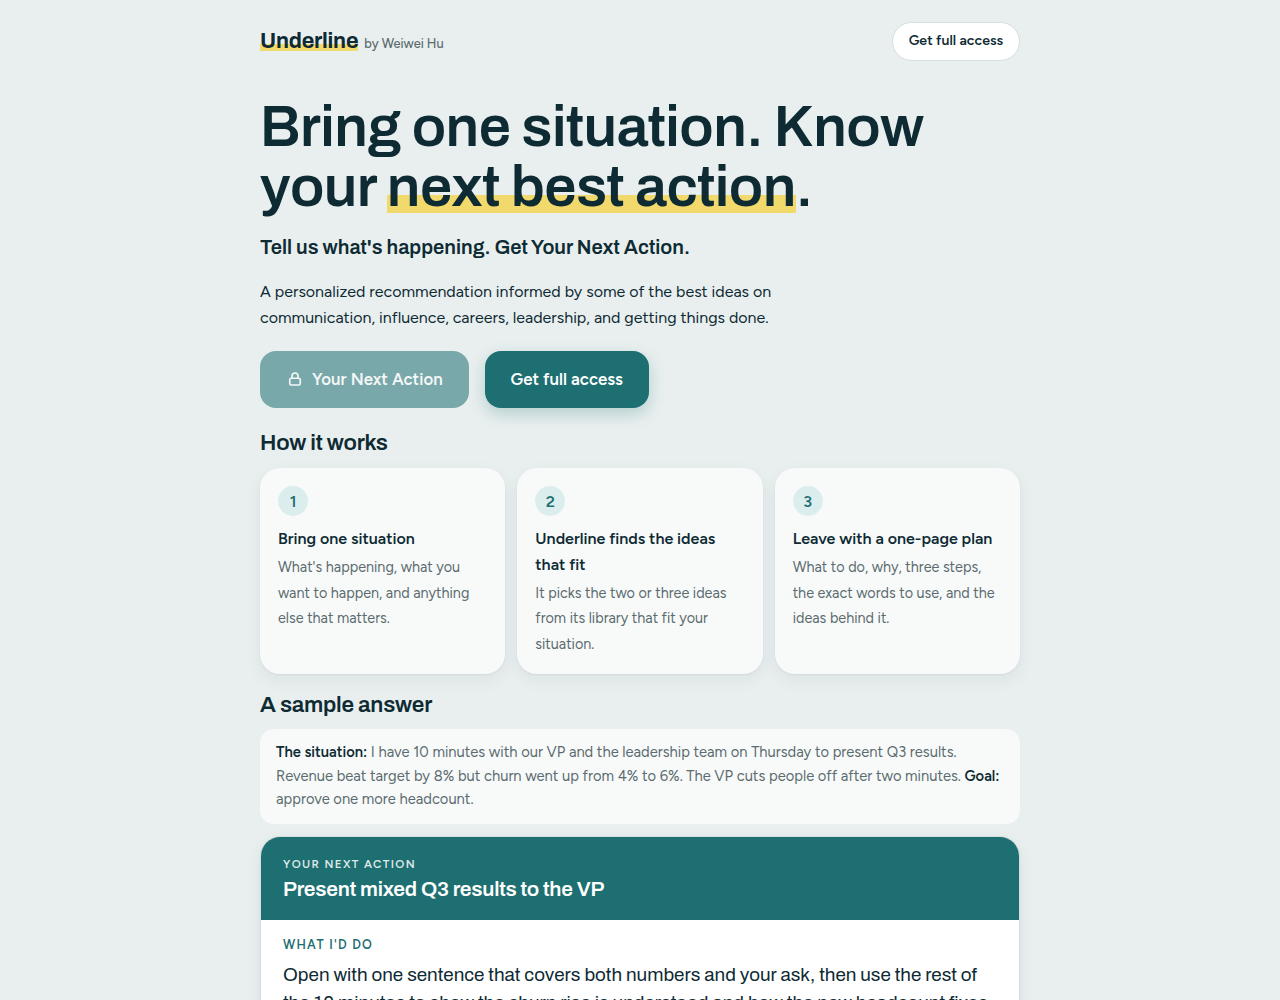
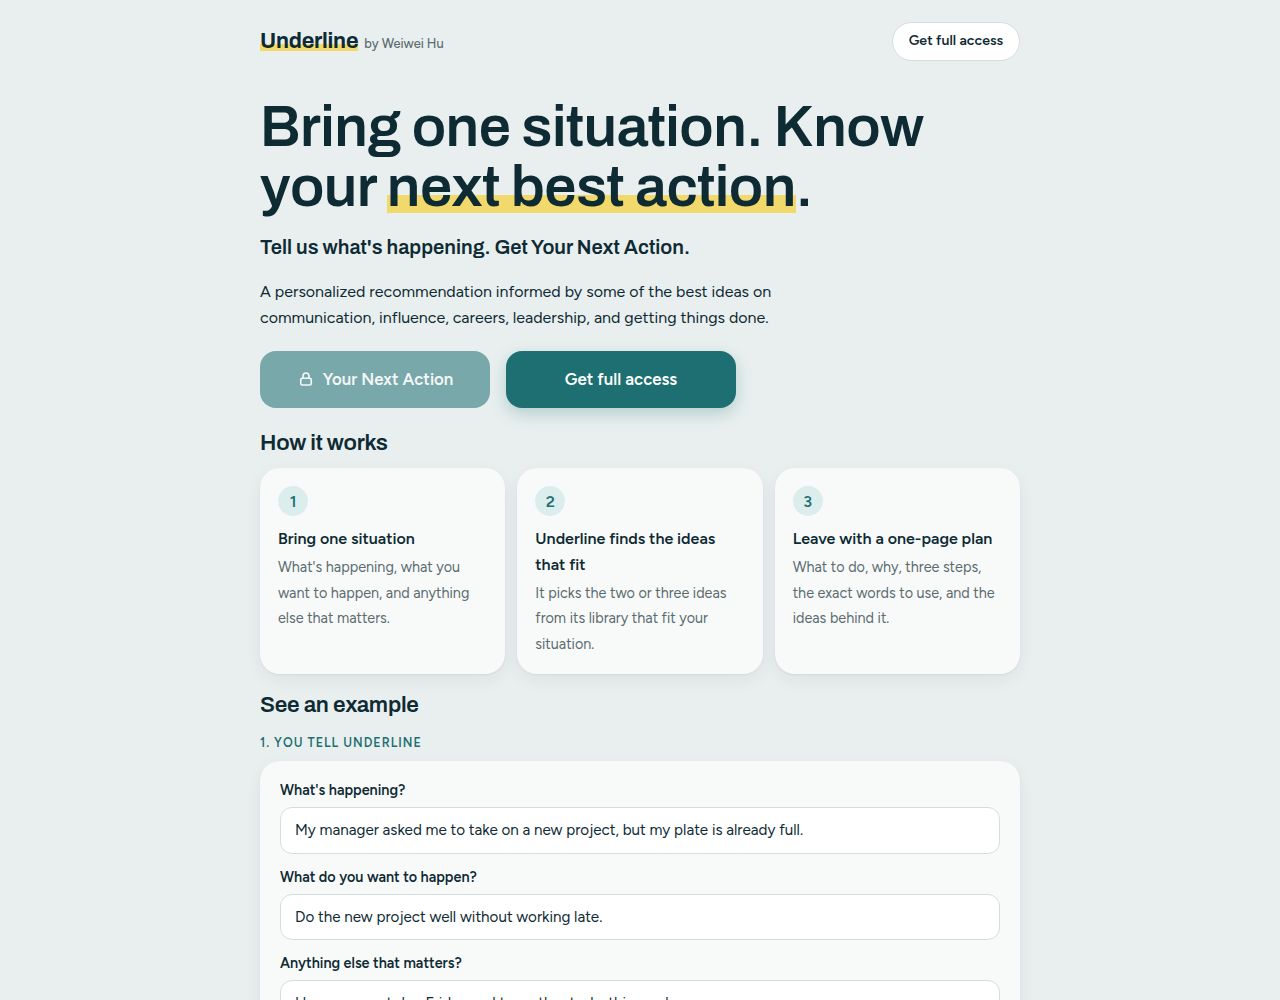
Simple example with inputs, equal buttons, teal footer

Changed region(s): [[0.1875, 0.682, 0.8125, 1.0], [0.2188, 0.341, 0.5938, 0.434]]

diff --git a/index.html b/index.html
@@ -113,6 +113,10 @@ footer a{color:var(--soft)}
 .steps3 span{font-size:.9rem;color:var(--soft)}
 @media (max-width:640px){.steps3{grid-template-columns:minmax(0,1fr)}}
 .h2{font-size:1.4rem}
+.steplabel{margin:14px 0 8px;font-size:.78rem;font-weight:700;letter-spacing:.08em;text-transform:uppercase;color:var(--brand)}
+.inputs{background:var(--card);border-radius:var(--r);box-shadow:var(--shadow);padding:18px 20px;display:flex;flex-direction:column;gap:12px}
+.fld .flabel{display:block;font-weight:600;font-size:.9rem;margin-bottom:5px}
+.fld p{margin:0;background:var(--card2);border:1px solid var(--line);border-radius:12px;padding:10px 14px;font-size:.95rem}
 .sample .ask{background:var(--card);border-radius:14px;padding:12px 16px;font-size:.92rem;color:var(--soft);margin:10px 0 12px}
 .sample .ask b{color:var(--ink)}
 .buy{background:var(--card);border-radius:var(--r);box-shadow:var(--shadow);padding:24px;display:flex;flex-direction:column;gap:10px}
@@ -122,11 +126,13 @@ footer a{color:var(--soft)}
 a.btn{text-decoration:none;color:var(--ink)}
 .cta.locked{border:0;gap:8px;cursor:not-allowed;opacity:.55;box-shadow:none;font-family:inherit}
 .cta.locked:hover{filter:none}
+.buyrow .cta,.lhero .ctarow .cta{width:230px;justify-content:center;align-items:center;white-space:nowrap;display:inline-flex}
+@media (max-width:520px){.lhero .ctarow .cta,.buyrow .cta{width:100%}}
 .price a{color:var(--brand);font-weight:600}
 .buyrow{display:flex;justify-content:center;padding:8px 0}
-.sitefoot{margin-top:10px;padding:18px 22px;border-radius:16px;background:#1e2b4d;color:#fff;display:flex;flex-wrap:wrap;align-items:center;justify-content:space-between;gap:12px 18px;font-size:.88rem}
+.sitefoot{margin-top:10px;padding:18px 22px;border-radius:var(--r);background:var(--brand);color:var(--brand-ink);display:flex;flex-wrap:wrap;align-items:center;justify-content:space-between;gap:12px 18px;font-size:.88rem}
 .sitefoot nav{display:flex;flex-wrap:wrap;gap:8px}
-.sitefoot a{display:inline-flex;align-items:center;gap:7px;padding:7px 15px;border-radius:999px;background:#fff;color:#1e2b4d;font-weight:700;text-decoration:none}
+.sitefoot a{display:inline-flex;align-items:center;gap:7px;padding:7px 15px;border-radius:999px;background:var(--card2);color:var(--ink);font-weight:700;text-decoration:none}
 .sitefoot a:hover{background:var(--mark)}
 @media (max-width:640px){.sitefoot{justify-content:center;text-align:center}.sitefoot nav{justify-content:center}}
 
@@ -160,15 +166,17 @@ a.btn{text-decoration:none;color:var(--ink)}
   </section>
 
   <section class="sample">
-    <h2 class="h2">A sample answer</h2>
-    <div class="ask"><b>The situation:</b> I have 10 minutes with our VP and the leadership team on Thursday to present Q3 results. Revenue beat target by 8% but churn went up from 4% to 6%. The VP cuts people off after two minutes. <b>Goal:</b> approve one more headcount.</div>
+    <h2 class="h2">See an example</h2>
+    <p class="steplabel">1. You tell Underline</p>
+    <div class="inputs"><div class="fld"><span class="flabel">What&#x27;s happening?</span><p>My manager asked me to take on a new project, but my plate is already full.</p></div><div class="fld"><span class="flabel">What do you want to happen?</span><p>Do the new project well without working late.</p></div><div class="fld"><span class="flabel">Anything else that matters?</span><p>I have a report due Friday and two other tasks this week.</p></div></div>
+    <p class="steplabel">2. You get Your Next Action</p>
     <article class="answer">
-      <div class="ahead"><div class="eyebrow">Your Next Action</div><h2>Present mixed Q3 results to the VP</h2></div>
-      <section class="asec"><h3>What I'd do</h3><p class="do">Open with one sentence that covers both numbers and your ask, then use the rest of the 10 minutes to show the churn rise is understood and how the new headcount fixes it.</p></section>
-      <section class="asec"><h3>Why</h3><ul class="why"><li><p>Your VP cuts people off after two minutes. If the result and the ask come in the first 30 seconds, you&#x27;ve made your point even if you&#x27;re interrupted.</p></li><li><p>Beat target, churn up, what do we do, add one person: that order puts the bad news in context and leads straight to the ask.</p></li><li><p>&quot;Churn went from 4% to 6%&quot; is easy to shrug off. Saying how many customers or how much revenue that 2% means makes the case for headcount land.</p></li></ul></section>
-      <section class="asec"><h3>How to do it</h3><ol class="how"><li>Today, turn the churn rise into a number people feel, such as [X] customers or [$] a year, and write your first sentence with it.</li><li>Before Thursday, cut the deck to three sections (revenue, churn, the plan) and put the churn cause and fix on one slide.</li><li>In the first minute on Thursday, say the opening below, then ask if they want the churn detail or the plan first.</li></ol></section>
-      <section class="asec"><h3>What to say</h3><div><p class="saylabel">Open with</p><p class="say">Q3 revenue beat target by 8%. Churn went up from 4% to 6%, which is about [X] customers, and we know why: [cause]. I&#x27;m asking for one more person in Q4 to fix it. That person would [task], which should bring churn back to [target] by [date]. I&#x27;ll show the three numbers behind this, then the plan.</p></div></section>
-      <section class="asec"><h3>Underlined</h3><ul class="underlined"><li><b>Answer first</b><span>Open with your main point or recommendation in one sentence.</span></li><li><b>Situation, Complication, Question, Answer</b><span>Write one line each: the situation, what changed or went wrong, the question that raises, and your answer.</span></li><li><b>Never leave data dangling</b><span>Put each key number next to something people already know.</span></li></ul></section>
+      <div class="ahead"><div class="eyebrow">Your Next Action</div><h2>Take on a new project when your plate is full</h2></div>
+      <section class="asec"><h3>What I'd do</h3><p class="do">Say yes to the project, and ask your manager which current task should move to make room.</p></section>
+      <section class="asec"><h3>Why</h3><ul class="why"><li><p>Your manager may not know how full your week is. Showing your list lets them choose what moves, so you don&#x27;t end up working late.</p></li><li><p>Sorting your tasks first shows which ones can wait or go to someone else, so the talk with your manager is short.</p></li></ul></section>
+      <section class="asec"><h3>How to do it</h3><ol class="how"><li>Today, list what you&#x27;re working on and when each task is due.</li><li>Mark one or two tasks that could wait or be handed off.</li><li>Tomorrow, show your manager the list and ask which one should move.</li></ol></section>
+      <section class="asec"><h3>What to say</h3><div><p class="saylabel">Say this to your manager</p><p class="say">I&#x27;m happy to take on the new project. Right now I have the Friday report and two other tasks. To do the new project well, one of these needs to move. Which one would you like me to push back?</p></div></section>
+      <section class="asec"><h3>Underlined</h3><ul class="underlined"><li><b>Say no by showing the trade-off</b><span>List what you&#x27;re working on, show what slips if you take the new thing, and ask which one should move.</span></li><li><b>Sort by urgent and important</b><span>Put each task in one of four boxes.</span></li></ul></section>
     </article>
   </section>
 
